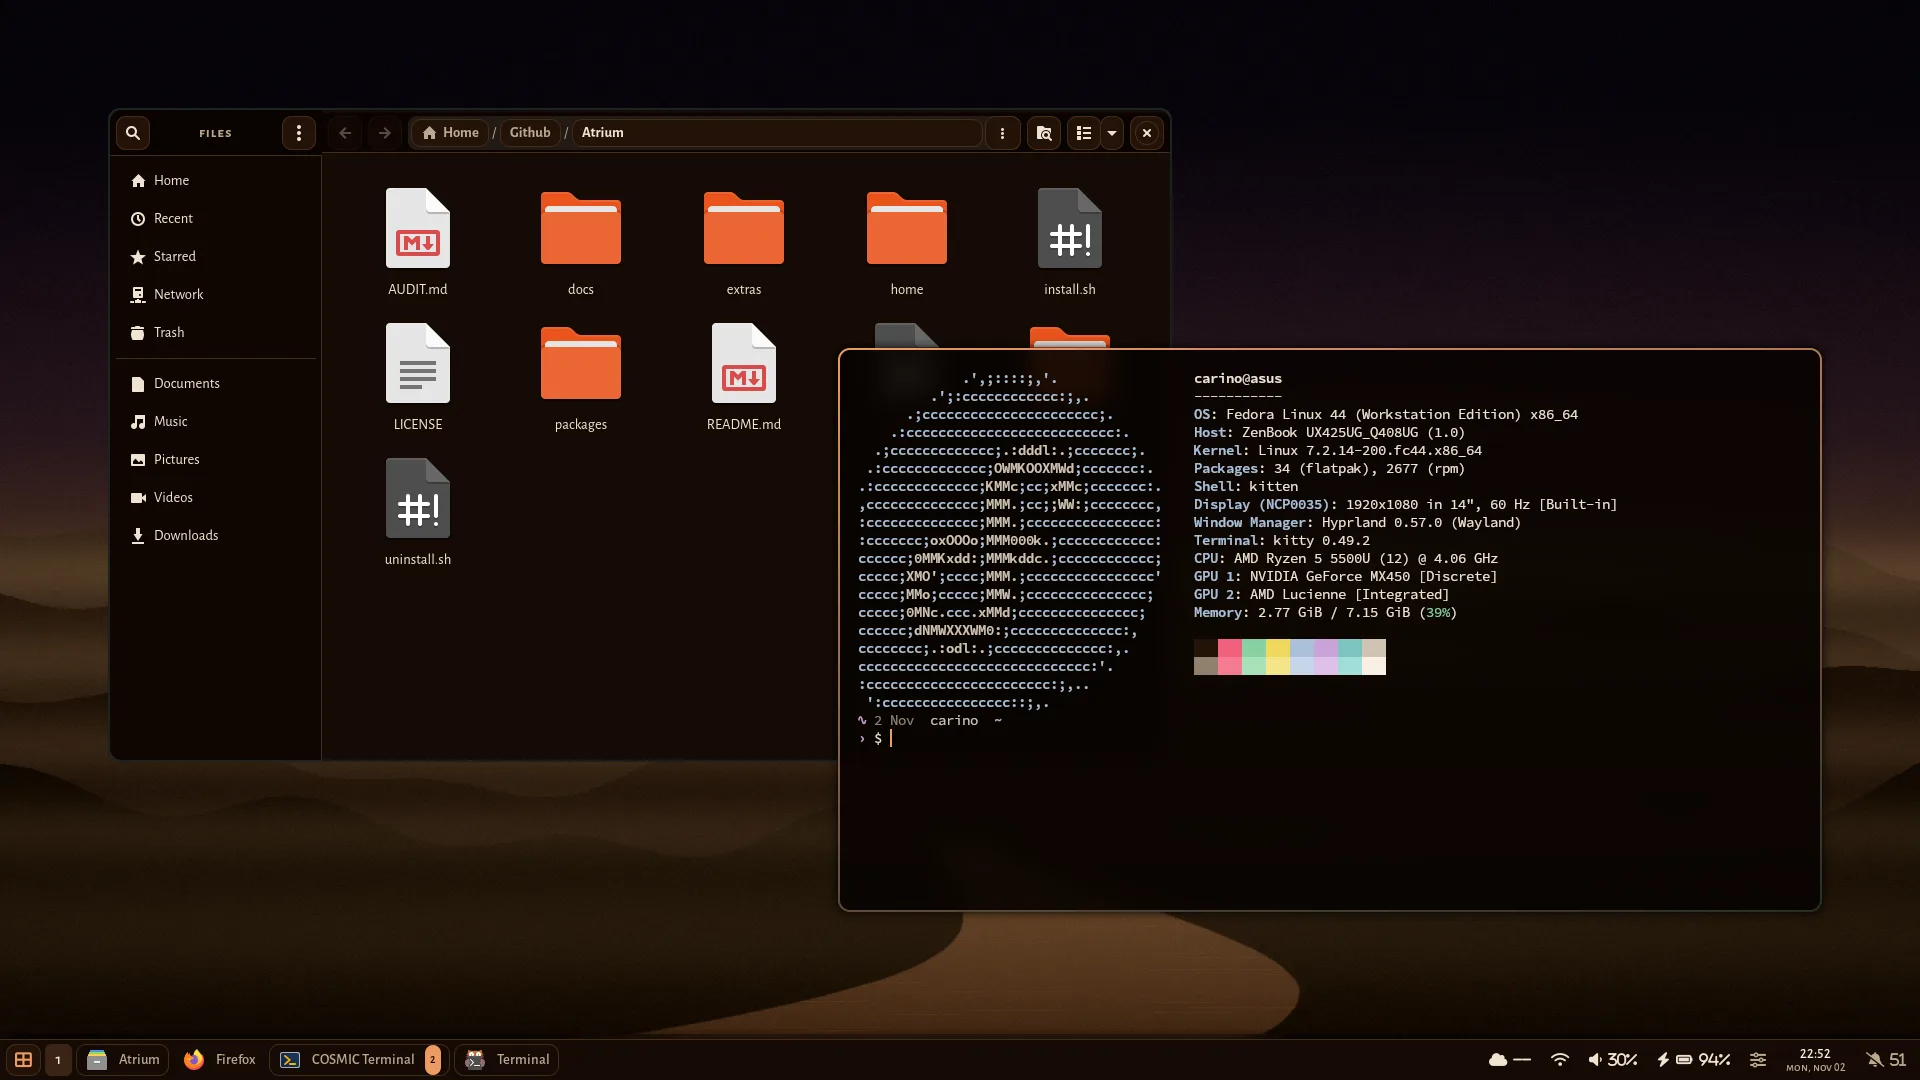
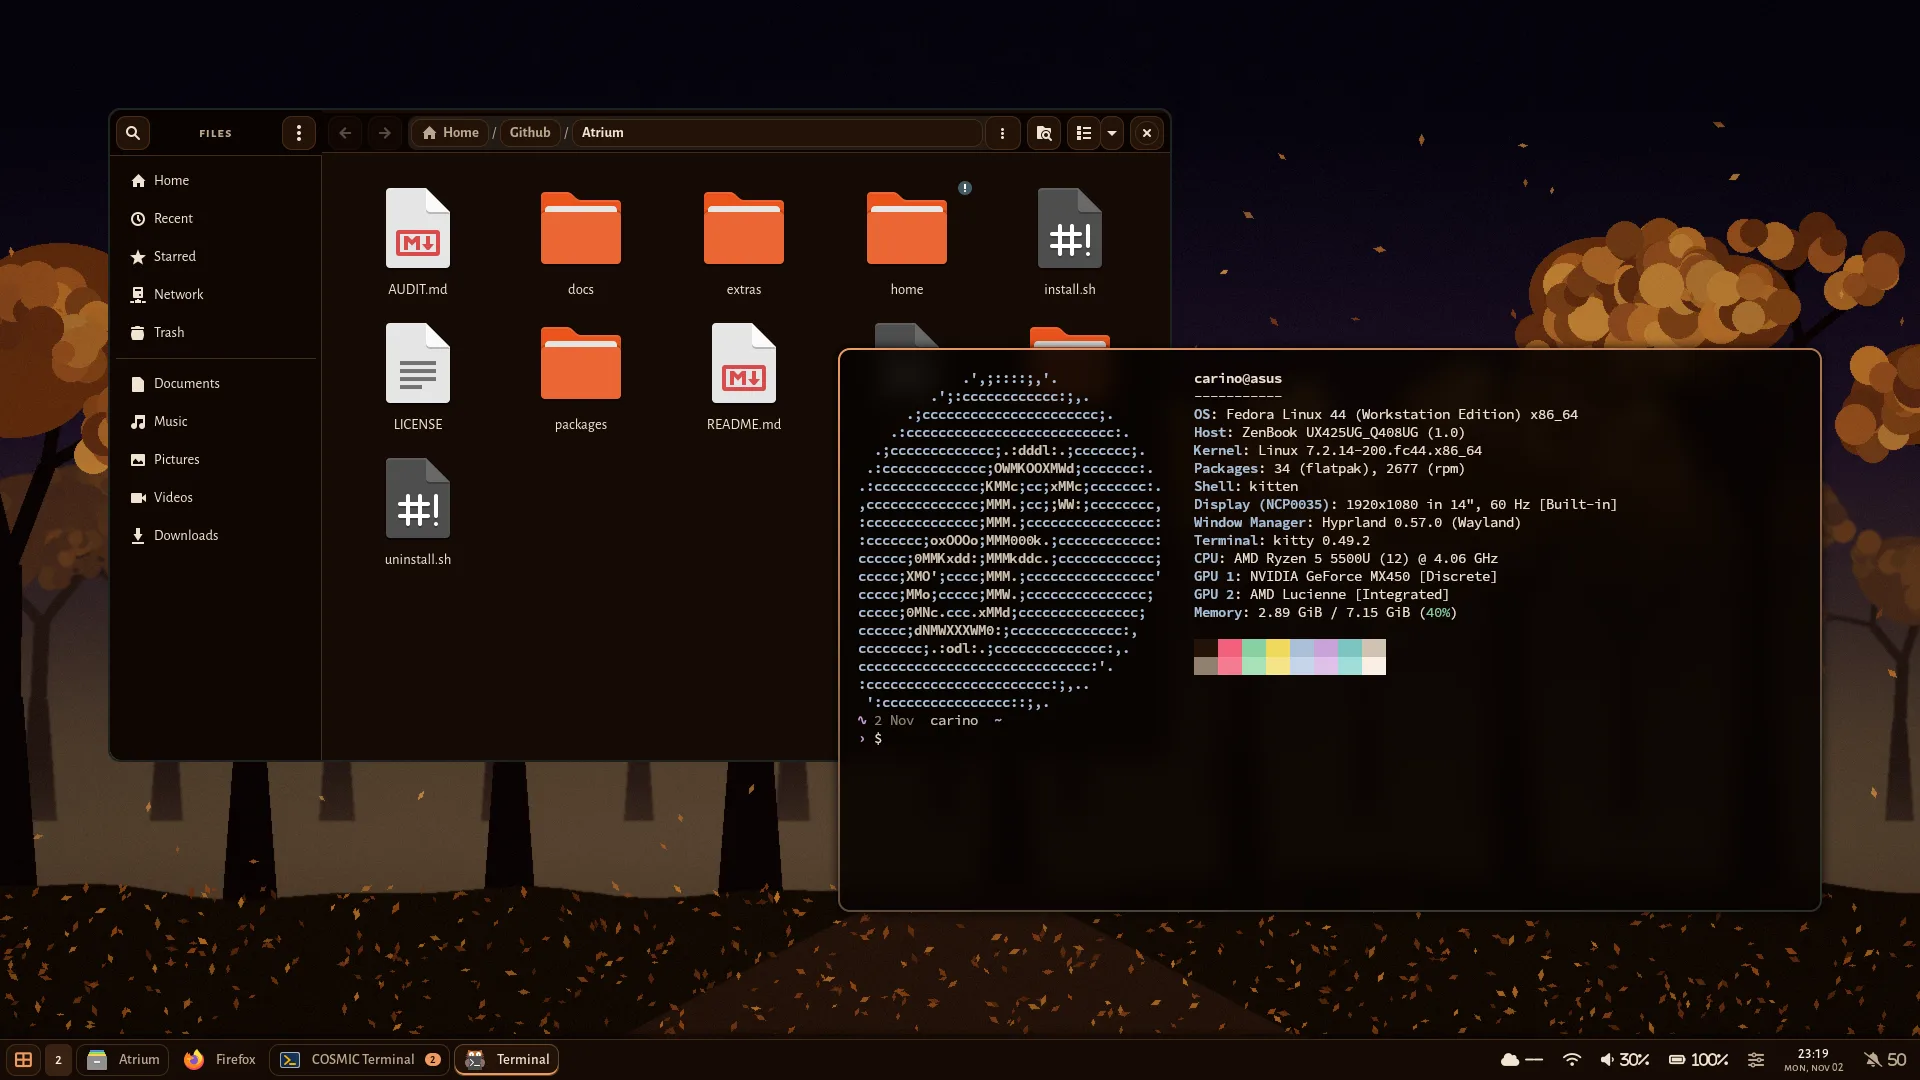
Taskbar: tray wells, compact badges; bar restarts past the start limit
bar-restart.sh: reset-failed before restarting. Every deliberate restart
counted against StartLimitBurst (5 in 30 s): a theme switch is one, each
Dock & taskbar change another, so clicking through a few themes made
systemd refuse the toolbox (start-limit-hit), the taskbar's tray went with
it, and "Bar restart: systemctl --user restart waybar failed" popped up.

dock.py: the window-count badge is centred, a pill the height of its
digits, not a full-height block in the theme's colour; the tray box is
dock-tray-empty while no app has an icon in it, so a theme's well is not
drawn round nothing.

Themes: Luna's notification area is one lighter-blue well from its dark
edge to the corner, the status icons white in it (they were the theme's
dark navy text on the strip's blue, and only the toolbox and clock had the
well); Win95's sunken box takes the status icons in with the clock; Aero
draws no empty glass capsule, Orbit no second rule, without tray icons.

Site: the taskbar screenshots retaken with these.

diff --git a/home/.config/themes/luna/dock.css b/home/.config/themes/luna/dock.css
@@ -182,6 +182,36 @@ button.dock-clock,
     color: @l-white;
 }
 
+/* The status buttons (weather, network, sound, battery, the privacy pills,
+   the bell) sit in the same well, edge to edge: XP's notification area is
+   one lighter-blue block from its dark left edge to the screen's corner,
+   its icons white. Without this they took the base's @text (Luna's dark
+   navy, for its light windows) on the strip's blue, with strip-blue gaps
+   between them, and only the toolbox and the clock had the well. */
+#dock.dock-layout-taskbar button.dock-status {
+    margin: 0px;
+    border-radius: 0px;
+    background-color: @l-tray;
+    background-image: linear-gradient(to bottom, @l-tray-hi 0px, @l-tray 3px, @l-tray 60%, @l-tray-lo 100%);
+    color: @l-white;
+}
+
+#dock.dock-layout-taskbar button.dock-status:hover {
+    background-image: linear-gradient(to bottom, @l-tray-hi 0px, alpha(@l-white, 0.14) 3px, alpha(@l-white, 0.14) 100%),
+                      linear-gradient(to bottom, @l-tray 0px, @l-tray 60%, @l-tray-lo 100%);
+}
+
+#dock.dock-layout-taskbar .dock-status-text,
+#dock.dock-layout-taskbar button.dock-status:hover .dock-status-text {
+    color: @l-white;
+    text-shadow: 1px 1px alpha(@l-black, 0.35);
+}
+
+#dock.dock-layout-taskbar button.dock-is-dnd .dock-status-text,
+#dock.dock-layout-taskbar button.dock-is-replay .dock-status-text {
+    color: alpha(@l-white, 0.55);
+}
+
 .dock-tray {
     padding: 0px 2px 0px 8px;
     box-shadow: inset 1px 0 @l-tray-edge,

diff --git a/home/.config/themes/win95/dock.css b/home/.config/themes/win95/dock.css
@@ -197,6 +197,26 @@ button.dock-clock {
                 inset 0 -1px @w-hi;
 }
 
+/* The status buttons (weather, network, sound, battery) are tray icons too:
+   inside the sunken box, between its left edge (the tray) and the clock,
+   on its top and bottom lines -- not loose on the bar's face with the well
+   round the toolbox and the clock only. The bell stays outside, right of
+   the clock, a button of its own. */
+#dock.dock-layout-taskbar button.dock-status:not(.dock-notifications) {
+    margin: 2px 0px;
+    padding: 0px 5px;
+    border: none;
+    border-radius: 0px;
+    background-color: @w-face;
+    background-image: none;
+    box-shadow: inset 0 1px @w-shadow,
+                inset 0 -1px @w-hi;
+}
+
+#dock.dock-layout-taskbar button.dock-status:not(.dock-notifications):hover {
+    background-color: transparent;
+}
+
 #dock.dock-layout-taskbar button.dock-toolbox {
     padding: 0px 4px;
     box-shadow: inset 0 1px @w-shadow,

diff --git a/home/.config/themes/aero/dock.css b/home/.config/themes/aero/dock.css
@@ -240,6 +240,15 @@ button.dock-start:active {
                 inset 0 -1px alpha(@a-gloss, 0.08);
 }
 
+/* No app has a tray icon: no glass well round nothing (dock.py's
+   dock-tray-empty), only a sliver of space before the status icons. */
+.dock-tray.dock-tray-empty {
+    margin: 0px 0px 0px 4px;
+    padding: 0px;
+    background-color: transparent;
+    box-shadow: none;
+}
+
 button.dock-tray-item,
 #dock.dock-layout-taskbar button.dock-toolbox,
 button.dock-clock {

diff --git a/home/.config/themes/orbit/dock.css b/home/.config/themes/orbit/dock.css
@@ -201,6 +201,13 @@ button.dock-start:hover {
     border-right: 1px solid @o-rule;
 }
 
+/* No tray icons (dock.py's dock-tray-empty): one rule, not two an empty
+   box's width apart. */
+.dock-tray.dock-tray-empty {
+    padding: 0px;
+    border-right: none;
+}
+
 .dock-time {
     font-family: "JetBrains Mono", "IBM Plex Mono", monospace;
     color: @o-readout;

diff --git a/home/.config/hypr/scripts/dock.py b/home/.config/hypr/scripts/dock.py
@@ -2041,6 +2041,9 @@ def daemon():
             self.label.set_width_chars(1)
             self.count = Gtk.Label()
             cls(self.count, "dock-count")
+            # A pill the height of its digits, not the button's: filling it,
+            # the themes' badge colours drew a full-height block.
+            self.count.set_valign(Gtk.Align.CENTER)
             if taskbar:
                 box.pack_start(self.image, False, False, 0)
                 box.pack_start(self.label, True, True, 0)
@@ -2495,6 +2498,9 @@ def daemon():
                 if self.engine.cfg["tray"] and self.main:
                     self.tray_box = Gtk.Box(spacing=0)
                     cls(self.tray_box, "dock-tray")
+                    # dock-tray-empty while no app has an icon in it
+                    # (update_tray): a theme's well is not drawn round nothing.
+                    cls(self.tray_box, "dock-tray-empty")
                     self.frame.pack_end(self.tray_box, False, False, 0)
                 if wanted & set(PRIVACY_KEYS):      # what is in use, left of the tray
                     self.frame.pack_end(self.make_privacy(), False, False, 0)
@@ -2824,6 +2830,7 @@ def daemon():
                     b.show_all()
                 b.refresh(tray.items[key])
                 self.tray_box.reorder_child(b, i)
+            cls(self.tray_box, "dock-tray-empty", not keys)
 
         # -- where it is, and the pointer ------------------------------------------------------
         def learn_rect(self):
